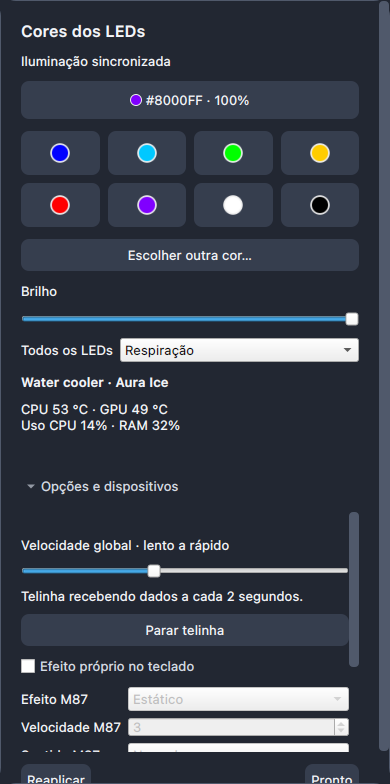
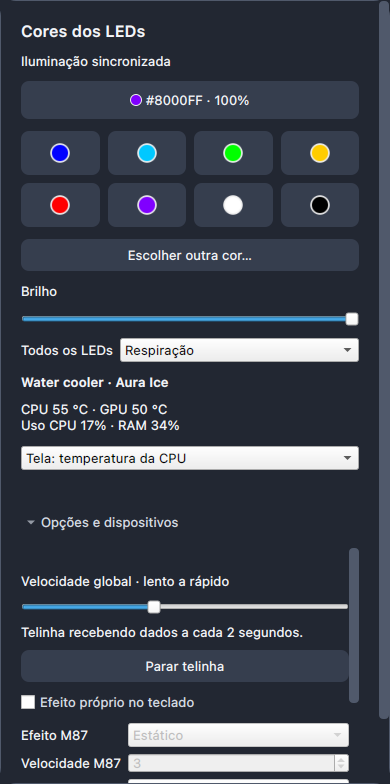
Choose CPU or GPU temperature source for cooler display

Changed region(s): [[0.0308, 0.4898, 0.9231, 1.0], [0.9538, 0.9184, 1.0, 0.9796], [0.8923, 0.6429, 0.9231, 0.7041]]

diff --git a/src/main.cpp b/src/main.cpp
@@ -61,6 +61,13 @@ int main(int argc, char **argv) {
     globalEffect->setAccessibleName("Efeito em todos os LEDs");effectLayout->addRow("Todos os LEDs",globalEffect);layout->addWidget(effectRow);
     auto waterTitle=new QLabel("Water cooler · Aura Ice");QFont waterFont=waterTitle->font();waterFont.setWeight(QFont::DemiBold);waterTitle->setFont(waterFont);layout->addWidget(waterTitle);
     auto waterStats=new QLabel("Lendo temperaturas…");waterStats->setWordWrap(true);waterStats->setTextInteractionFlags(Qt::TextSelectableByMouse);layout->addWidget(waterStats);
+    const QString waterConfig=QStandardPaths::writableLocation(QStandardPaths::ConfigLocation)+"/rise-mode-aura-ice/display.json";
+    auto waterSource=new QComboBox;waterSource->setAccessibleName("Temperatura enviada à telinha");
+    waterSource->addItem("Tela: sensores originais","original");waterSource->addItem("Tela: temperatura da CPU","cpu_temperature");waterSource->addItem("Tela: temperatura da GPU","gpu_temperature");
+    QFile waterConfigFile(waterConfig);if(waterConfigFile.open(QIODevice::ReadOnly)){int selected=waterSource->findData(QJsonDocument::fromJson(waterConfigFile.readAll()).object().value("temperature_source").toString());if(selected>=0)waterSource->setCurrentIndex(selected);}
+    waterSource->setToolTip("Escolhe a fonte dos campos de temperatura. Não altera o modo ou a unidade do visor.");layout->addWidget(waterSource);
+    int savedWaterIndex=waterSource->currentIndex();
+    auto waterSourceError=new QLabel;waterSourceError->setWordWrap(true);waterSourceError->hide();layout->addWidget(waterSourceError);
     auto status=new QLabel; status->setWordWrap(true); status->setTextInteractionFlags(Qt::TextSelectableByMouse); layout->addWidget(status);
     auto details=new QToolButton; details->setText("Opções e dispositivos"); details->setCheckable(true); details->setToolButtonStyle(Qt::ToolButtonTextBesideIcon); details->setArrowType(Qt::RightArrow); layout->addWidget(details);
     auto advanced=new QWidget;advanced->setObjectName("advancedOptions");advanced->setStyleSheet("QWidget#advancedOptions {background: #222732;}"); auto advancedLayout=new QVBoxLayout(advanced); advancedLayout->setContentsMargins(0,0,0,0); advancedLayout->setSpacing(10); auto advancedScroll=new QScrollArea;advancedScroll->setWidgetResizable(true);advancedScroll->setFrameShape(QFrame::NoFrame);advancedScroll->setWidget(advanced);advancedScroll->setMinimumHeight(190);advancedScroll->setMaximumHeight(240);advancedScroll->hide();layout->addWidget(advancedScroll);
@@ -183,7 +190,14 @@ int main(int argc, char **argv) {
         auto metrics=snapshot.value("metrics").toObject();
         auto metric=[&](QString key,QString unit){auto value=metrics.value(key);return value.isDouble()?QString::number(value.toInt())+unit:QString("—");};
         waterStats->setText("CPU "+metric("cpu_temperature"," °C")+" · GPU "+metric("gpu_temperature"," °C")+"\nUso CPU "+metric("cpu_usage","%")+" · RAM "+metric("memory_usage","%"));
-        waterState->setText(snapshot.value("status").toString()=="report_written"?"Telinha recebendo dados a cada 2 segundos.":"Falha ao enviar à telinha. Confira o monitor Rise Mode.");
+        waterState->setText(snapshot.value("status").toString()=="report_written"?"Telinha recebendo dados a cada 2 segundos.":"Falha na telinha: "+snapshot.value("error").toString("confira o monitor Rise Mode."));
+    });
+    QObject::connect(waterSource,qOverload<int>(&QComboBox::activated),[&](int){
+        QDir().mkpath(QFileInfo(waterConfig).absolutePath());QSaveFile file(waterConfig);
+        QByteArray data=QJsonDocument(QJsonObject{{"temperature_source",waterSource->currentData().toString()}}).toJson();
+        if(!file.open(QIODevice::WriteOnly)||file.write(data)!=data.size()||!file.commit()){waterSource->setCurrentIndex(savedWaterIndex);waterSourceError->setText("Não foi possível salvar a escolha da telinha. Tente novamente.");waterSourceError->show();return;}
+        savedWaterIndex=waterSource->currentIndex();waterSourceError->hide();
+        waterState->setText("Escolha salva. Aguarde a próxima atualização da telinha.");
     });
     QObject::connect(waterToggle,&QPushButton::clicked,[&]{waterToggle->setEnabled(false);waterControl.start("/usr/bin/systemctl",{"--user",waterActive?"stop":"start","rise-mode-display.service"});});
     QObject::connect(&waterControl,qOverload<int,QProcess::ExitStatus>(&QProcess::finished),[&](int code,QProcess::ExitStatus){if(code!=0)waterState->setText("Não foi possível alterar a telinha. Tente novamente.");refreshWater();});

diff --git a/README.md b/README.md
@@ -12,6 +12,8 @@ As ondas seguem a ordem lógica dos LEDs de cada dispositivo. Não há mapa de p
 
 ## Water cooler
 
+O seletor da telinha permite enviar temperatura da CPU, da GPU ou os sensores originais. A escolha persiste em `~/.config/rise-mode-aura-ice/display.json` e é aplicada no próximo ciclo do monitor. Somente campos de temperatura são substituídos; a seleção não muda o modo/unidade física do visor, e não implementa troca para porcentagem. Sensor indisponível interrompe o envio com erro, sem inventar leitura. Requer o driver da tela atualizado.
+
 O painel mostra temperaturas de CPU/GPU, uso de CPU/RAM e estado do serviço da tela Rise Mode Aura Ice, com controles para iniciar e pausar. Dados antigos deixam de aparecer como atuais. Requer a instalação separada do [driver da tela](https://github.com/alephscalioni/rise-mode-aura-ice-linux), privado do proprietário. O serviço atualiza a tela independentemente de o painel estar aberto. Esta integração não controla a bomba ou as ventoinhas.
 
 ## Instalação local
